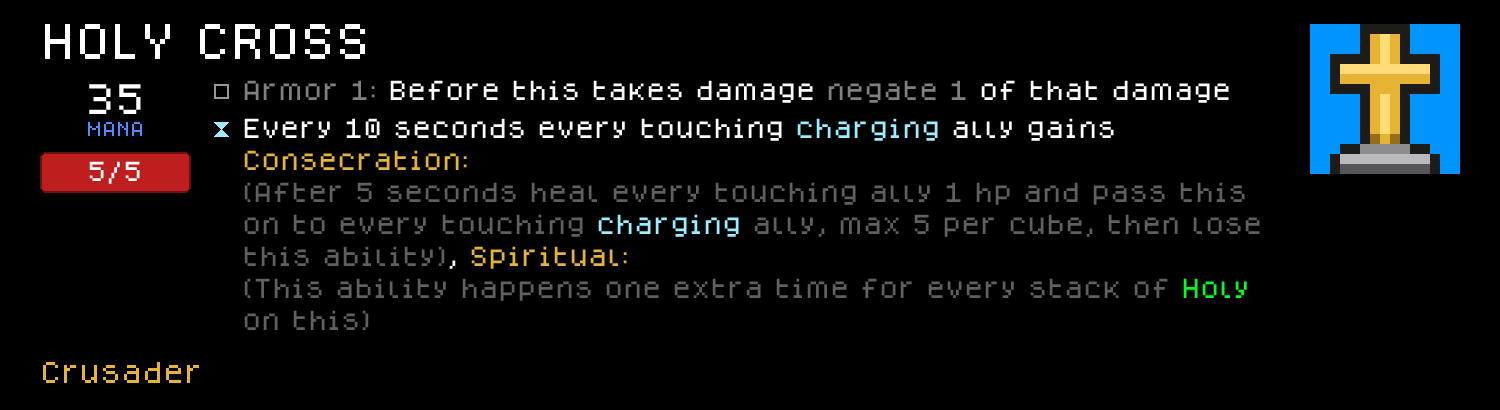
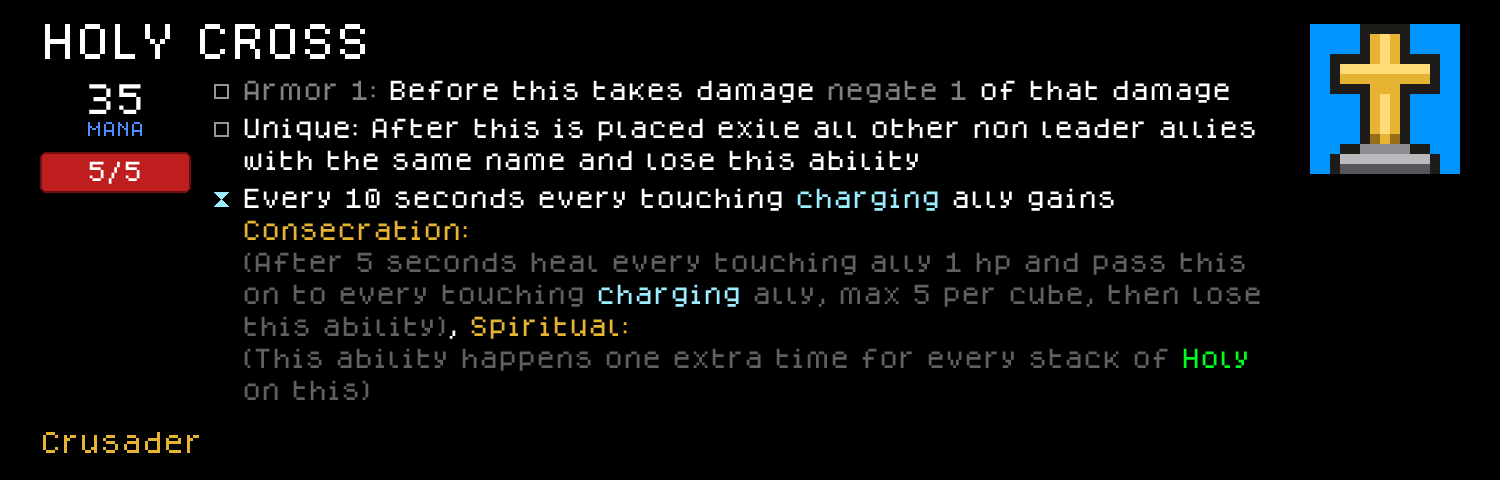
Add Divine Stone cube and Stairway to Heaven terrain
Holy Cross is now Unique.

diff --git a/.claude/skills/cube-chaos-scenario-scripting/scripts/render_terrain_screenshot.py b/.claude/skills/cube-chaos-scenario-scripting/scripts/render_terrain_screenshot.py
@@ -494,6 +494,13 @@ GREAT_WALL_OUTPUTS = [
     ("GreatWall_Boss.png", ["Great_Wall_Terrain", "Great_Wall_Boss_Terrain", "Battle_Normal_Player"]),
 ]
 
+CRUSADER_OUTPUTS = [
+    ("StairwayToHeaven.png",
+     ["Stairway_To_Heaven_Terrain", "Battle_Normal_Player", "Battle_Normal_Enemy"]),
+    ("StairwayToHeaven_Boss.png",
+     ["Stairway_To_Heaven_Terrain", "Stairway_To_Heaven_Boss_Terrain", "Battle_Normal_Player"]),
+]
+
 
 def render_terrain_mod(map_file, out_dir, outputs, shared_map_file=None, mod_dir=None, mod_prefix=None):
     """mod_dir/mod_prefix (both required together) let a terrain's own
@@ -531,4 +538,14 @@ if __name__ == "__main__":
         os.path.join(ROOT, "GameData", "Great_Wall", "Screenshots"),
         GREAT_WALL_OUTPUTS,
         shared_map_file=SHARED_MAP_FILE,
+    )
+    # Crusader's terrain uses its own Cloudstone TOKEN, so it needs mod_dir/mod_prefix
+    # for `_mod_own_blocks()` to resolve that cube's icon out of the mod's own sheet.
+    render_terrain_mod(
+        os.path.join(ROOT, "GameData", "Crusader", "Crusader_Maps.c.txt"),
+        os.path.join(ROOT, "GameData", "Crusader", "Screenshots"),
+        CRUSADER_OUTPUTS,
+        shared_map_file=SHARED_MAP_FILE,
+        mod_dir=os.path.join(ROOT, "GameData", "Crusader"),
+        mod_prefix="Crusader",
     )

diff --git a/.claude/skills/cube-chaos-scenario-scripting/references/battle-and-terrain-maps.md b/.claude/skills/cube-chaos-scenario-scripting/references/battle-and-terrain-maps.md
@@ -154,7 +154,7 @@ Every real Terrain perk supplies exactly 4 `ReadAPartialScenario` calls, always 
 
 **A boss battle's map is the terrain's normal ground partial PLUS its boss-ground partial, both composited — not the boss partial alone.** `MapGenerationTPEB`'s `COMPOUND: ABILITY` body (above) has exactly one `GenericAction` placeholder per signal branch, in the fixed order ground(1)/player(2)/enemy(3)/boss-ground(4), and a terrain's own `WorldAbility: MapGenerationTPEB` fills those 4 slots positionally with its 4 `ReadAPartialScenario` calls. A boss battle's `START_ACTION:` only fires 3 of the 4 signals — `Battle_Terrain_Generation`, `Battle_Boss_Generation`, `Battle_Player_Generation`, never `Battle_Enemy_Generation` — which resolves to slots #1 (ground) and #4 (boss-ground) BOTH running, slot #3 (enemy) never firing. Confirmed by reconstructing `Great_Wall`'s own boss map purely from data (`GameData/Great_Wall/Great_Wall_Maps.c.txt`, via `.claude/skills/cube-chaos-scenario-scripting/scripts/render_terrain_screenshot.py`) and comparing against a real in-game screenshot: `Great_Wall_Boss_Terrain`'s own `DATARECT:` data places only ONE wall (at x=37), but the real screenshot shows TWO — the first wall only appears because `Great_Wall_Terrain` (the normal ground partial) is composited in underneath it. When building a new terrain's boss-ground partial, remember its content LAYERS ON TOP of the normal ground partial rather than replacing it — author boss-only additions (a second wall, extra hazards) rather than re-declaring the whole floor, and don't be surprised that a `<Name>_Boss_Terrain` file with sparse `DATARECT:`/`DATA:` content still produces a full battlefield.
 
-**A terrain's battlefield can be rendered straight from its own map data, no game launch needed** — `.claude/skills/cube-chaos-scenario-scripting/scripts/render_terrain_screenshot.py` parses a terrain's `ADDITIONALMAP:` blocks into a grid and draws each cell using the real cube's own icon (resolved the same way `render_preview_cards.py`'s Referenced Cubes row does — the terrain's own `<ModPrefix>_Cubes.c.txt` first via the `mod_dir`/`mod_prefix` arguments, then `_all_base_game_blocks()`'s base-game fallback), tiled at 30px/cell against a sky-gradient background sampled from a real screenshot (52x28 tiles → 1560x840px, matching real screenshots' own dimensions exactly). Scope: only the terrain's own ground-layout partial(s) — the shared `Battle_*_Player`/`Battle_*_Enemy` leader partials place an engine-hardcoded `Empty`/`Difficulty_Leader` placeholder with no real sprite (the actual Leader art is spawned by the engine at battle start, not present in any map DSL), so a generated image omits leader/HUD icons a real screenshot has.
+**A terrain's battlefield can be rendered straight from its own map data, no game launch needed** — `.claude/skills/cube-chaos-scenario-scripting/scripts/render_terrain_screenshot.py` parses a terrain's `ADDITIONALMAP:` blocks into a grid and draws each cell using the real cube's own icon (resolved the same way `render_preview_cards.py`'s Referenced Cubes row does — the terrain's own `<ModPrefix>_Cubes.c.txt` first via the `mod_dir`/`mod_prefix` arguments, then `_all_base_game_blocks()`'s base-game fallback), tiled at 30px/cell against a sky-gradient background sampled from a real screenshot (52x28 tiles → 1560x840px, matching real screenshots' own dimensions exactly). Scope: only the terrain's own ground-layout partial(s) — the shared `Battle_*_Player`/`Battle_*_Enemy` leader partials place an engine-hardcoded `Empty`/`Difficulty_Leader` placeholder with no real sprite (the actual Leader art is spawned by the engine at battle start, not present in any map DSL), so a generated image omits leader/HUD icons a real screenshot has. **It also renders the map exactly as authored and does not simulate gravity or evaluate any placed cube's abilities** — so an unsupported feature that will collapse at battle start, and a faction-`0` copy of an ability-bearing cube that will sit inert, both look perfectly correct in the PNG. Those two are the checks it cannot do for you; see the two rules below.
 
 **This is wired into `content-terrain.md`'s own workflow, not just a standalone debugging tool** — generate and show this screenshot to the user right after writing a new terrain's ground-layout partial(s), as a fast layout-verification loop before spending a full test-launch on it. `render_terrain_mod()` is a reusable function (map file, output dir, an `(filename, [scenario names])` outputs list, optional `mod_dir`/`mod_prefix`), called once per terrain mod from a "Registered terrain mods" call list at the bottom of the script — the same "hardcoded list, extend when a new mod needs it" convention `render_preview_cards.py`'s own `render_mod(...)` calls already use (see `cube-chaos-mod-setup` SKILL.md). Add a new call there for a new terrain mod rather than repointing `GREAT_WALL_OUTPUTS`. `.claude/hooks/regen-terrain-screenshots.sh` (a PostToolUse hook, universal `GameData/*.c.txt` scope like `regen-preview-cards.sh`) reruns every registered mod's screenshots automatically after any content edit — but only mods actually registered in the script get regenerated, so registering a new terrain mod is still a required manual step.
 
@@ -163,6 +163,45 @@ Every real Terrain perk supplies exactly 4 `ReadAPartialScenario` calls, always 
 **A handful of map-DSL cube names used in real boss-terrain decoration have no corresponding `CUBE:` text definition anywhere in `GameData`** — same category as `Boss`/`Leader`/`Difficulty_Leader`/`Empty` (engine-hardcoded, usable only as a map-placement name, not moddable/inspectable as DSL). Confirmed absent from every `.c.txt` in the repo (checked per-subfolder, not a single whole-tree grep — see the grep-silent-failure note in `cube-chaos-mod-setup`): `Spiker_Wall`, `Spikes`, `Solar_Panel` (all used only inside `Extra_Mechanics/Battle_Maps.c.txt`'s own boss-terrain decoration clusters). Don't go looking for their `CUBE:` block if you want to reuse or reference one — it doesn't exist; just use the name directly in a `DATA:`/`DATARECT:` line the same way the base game does.
 
 **Gravity is real: an unsupported cube (nothing solid directly South of it) falls, one tile at a time, until it hits something solid** — confirmed via `Skewer_Trap`'s (`Main/3GeneralCubes.c.txt:5852`, a real obtainable `TYPE Wall` cube, not an `Extra_Mechanics` TOKEN) own trigger, `AfterACubeMoves ... If IsSameCube Caster CubeInDirectionFromCube South Victim`, which fires specifically when a falling cube comes to rest in the tile directly above it. **To build a pit/fall-trap in a terrain's floor, leave the tiles directly above the trap empty instead of filling them with the floor cube** — e.g. a trap meant to sit "2 tiles below the floor surface" needs the floor's normal top 2 rows left unfilled at that one column, with the trap cube occupying the row below that gap; a unit that steps onto that column has nothing to stand on and falls straight into it. **Also watch for a trap-style cube's own `AfterThisIsCreated`-time area effect hitting terrain fill, not just player units** — `Skewer_Trap` kills up to 2 *neutral* cubes directly below itself on creation; placing multiple neutral copies of it stacked in the same column (or one directly above plain neutral floor filler) causes it to silently gut its own neighbors/the floor beneath it at terrain-generation time. Space multiple instances of a self-triggering neutral decoration at least 3 tiles apart in the same column, or make sure what's below it isn't neutral, to avoid this.
+
+## Give every ability-bearing terrain cube to the faction meant to USE it — faction `0` disables any ally-gated ability
+
+**Rule: when a terrain places a cube whose ability is gated on `IsAllyToCaster`/`IsEnemyToCaster` or uses `Forwards`/`Backwards`, set that `DATA:`/`DATARECT:` line's faction argument to the faction meant to benefit (`1` player side, `2` enemy side) — never `0`.** Faction `0` is correct only for inert decoration (a rock floor, an ocean, a wall with no ability). A neutral cube has no allies for `IsAllyToCaster` to match and no meaningful facing for `Forwards`/`Backwards` to resolve against, so its ability silently does nothing and it degrades into a plain wall — with no log warning, since nothing failed to parse.
+
+**Verify it before launching:** for every cube name a terrain places, grep its `CUBE:` block for `IsAllyToCaster`/`IsEnemyToCaster`/`Forwards`/`Backwards` (`grep -A15 "^CUBE: <Name> " <file>`). Any hit means that cube's placing line must carry faction `1` or `2`, not `0`. A terrain that reads correctly in `render_terrain_screenshot.py` proves nothing here — the screenshot draws the tile identically at any faction (bar the mirror flip), so this is exactly the class of bug a picture can't catch.
+
+**Evidence.** `Staircase` (`Main/3GeneralCubes.c.txt:5959`, a real obtainable `IDENT 1` cube, `TYPE Wall` + `TYPE Movement`) is the load-bearing case: its whole point is `Ability: BeforeACubeMoves If IsAllyToCaster Victim ... TargetCube Victim MoveInDirection North` — "before an ally moves into this horizontally move it upwards (they can climb over this)", i.e. it is the engine's stock **traversal** primitive for a terrain with height. The base game places it exactly once in the entire map layer (`Extra_Mechanics/Battle_Maps.c.txt:192`, `Mountain_Boss_Terrain`), as three steps at **faction 2** (`DATA: 8 44 10 2`, `8 45 11 2`, `8 46 12 2`) climbing to that terrain's own boss — deliberately the boss's own stair, not neutral scenery. Applied in `GameData/Crusader/Crusader_Maps.c.txt` (`Stairway_To_Heaven_Terrain`, 2026-08-03): the player's 18-step stair is faction `1`, the mirrored enemy stair faction `2`, and only the inert pieces (cloud beds, the platform's middle tiles, the summit's `Mana_Crystal`s) are faction `0`. This also makes each side's stair destructible by the other, which is a feature — denying an opponent their climb becomes real play.
+
+**Faction-symmetry note:** giving each side its own mirrored copy is what keeps such a terrain symmetric — it is the scenario-layer expression of the same mandate `CLAUDE.md` states for `Ability:` chains (see `cube-chaos-scripting/references/targeting-movement-board.md`). One shared neutral structure is *not* the symmetric option here; it's the broken one.
+
+## A floating terrain feature needs `Flying` under every tile — `Burrowed` is NOT anti-gravity
+
+**Rule: any terrain tile not resting on a stack that reaches the map's bottom row must be a cube with `Ability: Flying`, or sit directly on top of one.** Gravity applies to map-placed cubes exactly as it does to units, so an unsupported decoration falls at battle start.
+
+**`Burrowed` looks like the anti-gravity ability and is not.** Its `COMPOUND: ABILITY` body is literally `Nothing` (`Base_Core/1Compounds.c.txt`) and `ModdingInfo.txt:90` defines it as *"Won't be attacked by `Melee` from above"* — a melee-immunity marker with zero movement effect. The real anti-gravity ability is **`Flying`**: `BeforeThisMovesNegation If IsSameCube Culprit WorldCube NegateX DoubleConstant 1`, i.e. it negates specifically the gravity `WorldCube`'s pull (see `cube-chaos-scripting/references/targeting-movement-board.md`'s gravity section for the full negation idiom and its `Hovering`/`Buoyant` variants). `Earth`/`Rock`/`Granite`/`Basalt`/`Anchored_Basalt` carry `Burrowed` and never fall **only because every real ground fill is stacked up from row 27** — their support is the map floor, not the ability. Copying `Burrowed` onto a mid-air tile therefore looks precedented and silently fails.
+
+**The base game's own floating-terrain cube is `Floating_Tungsten`** (`Extra_Mechanics/TokenCubes.c.txt:618`) — exactly `Burrowed` + `Flying`, and what `Loop_Monument_Terrain` uses for every platform suspended in open air. Reach for it, or copy its two-ability shape, rather than inventing a floating tile from `Burrowed` alone.
+
+**Verify it before launching:** for every placed tile at `(x, y)`, confirm either `(x, y+1)` is filled by some line in the same partial, or that tile's own cube has `Flying` — walk the coordinate list in code, don't eyeball the screenshot. `render_terrain_screenshot.py` renders the map **as authored** and simulates neither gravity nor any placed cube's abilities, so a terrain that will collapse on the first battle looks perfectly intact in the generated PNG. Together with the faction rule above, these are the two checks that image cannot do for you.
+
+**Evidence / incident (2026-08-03).** Crusader's `Stairway_To_Heaven_Terrain` shipped its 36 stair beds and summit platform on a `Cloudstone` TOKEN carrying `Burrowed` only, on the strength of an earlier, wrong version of this very section. It parsed clean, logged nothing, and rendered correctly — the whole stairway would have fallen on the first battle. Caught only when the user independently asked about `Flying`; fixed by adding `Ability: Flying` to `Cloudstone`, matching `Floating_Tungsten`. Note also that the base game's own `Mountain_Boss_Terrain` staircases at `(44,10)`/`(45,11)`/`(46,12)` have nothing beneath them and no `Flying` either — don't copy that placement as a worked example.
+
+## Wrapping a column's bottom back to its top (`Loop_Chasm`)
+
+**To make falling loop instead of ending on the floor, place `Loop_Chasm` on the bottom row (`y=27`) of that column and leave the column above it OPEN.** `Loop_Chasm` (`Extra_Mechanics/TokenCubes.c.txt:606`, `TOKEN`, 15/40/40, faction `0` in every real placement) rewrites adjacency once per second so that the tile above it leads to `(thisX, 0)` and back:
+```
+Ability: EverySecond Both ChangeIncomingAdjacency PositionOfThis
+ South PositionFromXAndY XOfPosition PositionOfThis DoubleConstant 0
+ NewAdjacency PositionFromXAndY XOfPosition PositionOfThis DoubleConstant 0
+ North PositionOfThis
+Ability: Quantum
+Ability: Unmovable
+```
+It only affects **its own column**, so looping N columns needs N of them — a `DATARECT:` across the bottom row is the idiom. `Quantum` ("after this dies, teleports or moves reset all adjacency at the previous position") is what keeps the rewritten adjacency from leaking once something moves through, so grant it alongside rather than using `ChangeIncomingAdjacency` bare.
+
+**A looping column MUST contain something solid somewhere, or anything entering it falls forever.** `Loop_Monument_Terrain` satisfies this by looping only a few deliberate chasms while keeping a real floor elsewhere. **Verify with code, not by eye:** build a `column -> solid rows` map from the partial's own `DATA:`/`DATARECT:` lines and assert no column is empty. This is cheap and catches the one failure mode that is genuinely unrecoverable in play.
+
+**Budget for how the loop LOOKS before committing to it, not just how it behaves — `Loop_Chasm`'s own icon is a bright yellow-flecked portal frame around a black void, and one per column means that art tiles across the entire bottom row.** Real outcome (Crusader `Stairway_To_Heaven`, 2026-08-03): a full 52-column loop was built, worked correctly, and was then removed purely because a row of portals read as wrong on a serene sky map — the mechanic was fine, the visual dominance wasn't. If a loop is wanted on a map with a strong art direction, either confine it to a few deliberate chasms the way `Loop_Monument` does, or define a mod-own `TOKEN` carrying the same three abilities (`ChangeIncomingAdjacency`+`NewAdjacency` body, `Quantum`, `Unmovable`) with art that matches the terrain — base-game sprites can't be restyled (`CLAUDE.md`), so a mod-own twin is the only way to keep the mechanic and lose the look.
 
 ## Practical sequence for a new Terrain perk
 

diff --git a/.claude/skills/cube-chaos-audit/references/cross-skill-index.md b/.claude/skills/cube-chaos-audit/references/cross-skill-index.md
@@ -57,6 +57,8 @@ tracking them as a set, so the same asymmetry kept recurring skill after skill.
 | A **computed-value** ability grant takes the bare coloured name + "equal to \<expr\>" in prose, never `\A` — `\A` substitutes the literal parameter and would print the wrong number | `cube-chaos-rule-text/SKILL.md` (the three mechanical cautions under "Why `\A` at all") | `cube-chaos-scripting` (`GainAbilityStacking`/`XTimes`-computed grants are exactly where this arises); `cube-chaos-audit` has no row for it yet | linked 2026-08-03 |
 | `Difficulty` starts at **0** and tracks battles won, so any stat scaled off it must be floored/offset or the cube is born at 0 hp on battle one | `cube-chaos-balancing/SKILL.md` ("Scaling a stat off `Difficulty`") | `cube-chaos-scripting` (it's a plain DOUBLE production usable in any chain, with no hint of the 0 floor); `cube-chaos-scenario-scripting` owns the `ChangeDifficulty` sites that drive the counter | linked 2026-08-03 |
 | Script-written `.c.png` files never fire `regen-preview-cards.sh`/`regen-readme-previews.sh` (both match `Write\|Edit` + `tool_input.file_path`), so a scratchpad-generated sheet needs a manual `render_preview_cards.py` run — the stale card looks like bad slot math | `cube-chaos-sprite-art/SKILL.md` ("Script-written sheets don't trigger the regen hooks") | `cube-chaos-mod-setup` (owns the test/verify loop and README/Preview governance); `cube-chaos-scenario-scripting` (`render_terrain_screenshot.py` is generated the same way) | linked 2026-08-03 |
+| A terrain cube whose ability is gated on `IsAllyToCaster`/`Forwards` must be placed at faction `1`/`2`, never `0` — a neutral copy silently degrades to an inert wall (`Staircase`, the engine's stock traversal primitive, is the load-bearing case) | `cube-chaos-scenario-scripting/references/battle-and-terrain-maps.md` ("Give every ability-bearing terrain cube to the faction meant to USE it") | `cube-chaos-scripting/references/targeting-movement-board.md` ("Hardcoding `East`/`West`") now points here — same faction-symmetry mandate, scenario layer; `cube-chaos-audit` still has no checklist row for an inert-neutral terrain cube | linked 2026-08-03, needs checklist row |
+| Map-placed cubes fall: a diagonal/floating terrain feature needs a `Burrowed` cube under every tile, and `render_terrain_screenshot.py` does NOT simulate gravity so a collapsing layout looks intact in the PNG | `cube-chaos-scenario-scripting/references/battle-and-terrain-maps.md` ("A diagonal/floating terrain feature needs a `Burrowed` bed") | `cube-chaos-scripting/references/targeting-movement-board.md` (gravity is a general board fact, not terrain-only) now points here; the screenshot's own known-gaps paragraph in the same file now names this gap | linked 2026-08-03 |
 | `IsPositionEmpty <P>` already short-circuits on the null check, so it returns `false` off-board and `And PositionExists <P> IsPositionEmpty <P>` is redundant; `PositionExists` alone is only for "is this the map edge" regardless of occupancy | `cube-chaos-scripting/references/targeting-movement-board.md` ("`IsPositionEmpty` already implies `PositionExists`") | `cube-chaos-audit` has no row for the redundant-guard pattern (it's harmless, but it's the shape that makes people think an empty-check is unsafe alone); two live instances remain in `General_Cubes.c.txt` (`Bomber`, `Take_Off`) | needs checklist row |
 | `AddCubeToInventory`/`AddCubeToDeck` take a full `CUBE` production, so a starter/grant can be randomized from a custom pool via `APRandomCubeInLibraryWhich` + a name or `HasCategory` filter — `AP` is the campaign-**seeded** variant and the only one valid in meta-game context | `cube-chaos-scripting/references/creation-and-copying.md` ("Randomizing a grant from a custom pool") | `cube-chaos-scripting/SKILL.md`'s starting-cube baseline note now points here; `cube-chaos-balancing` (a randomized starter's power has to be judged across the whole pool, not one cube) | linked 2026-08-03 |
 | `-N Animated Cubes` in `Log.txt` counts cubes with a **declared** `Animation:` line, not successfully-loaded frame files — so it cannot detect a missing/misnamed PNG (that's the separate `Failed to find animation file:` ERROR), and a static recount won't reconcile if a `Loading_Order.txt` package lives outside `GameData/` | `cube-chaos-scripting/references/cube-animation.md` ("The count is a DECLARATION count") | `cube-chaos-mod-setup` (owns the launch-and-check-`Log.txt` loop, where this count is read); `cube-chaos-sprite-art` (owns the frame-file naming/placement that the other check covers) | needs link |

diff --git a/.claude/skills/cube-chaos-scripting/references/targeting-movement-board.md b/.claude/skills/cube-chaos-scripting/references/targeting-movement-board.md
@@ -150,6 +150,8 @@ This is not a rare mistake — a real audit of both mods in this repo (grep `\bE
 
 **Whenever writing a new cube/perk that creates or targets something to one side, default to `Forwards`/`Backwards` and only reach for a literal `East`/`West` if there's a genuine reason the effect must be map-absolute** (rare — no real example of this need was found anywhere in either mod). When reviewing/debugging an existing sideways effect that seems to misbehave only for one player, grep for `East`/`West` in that ability chain before looking anywhere else.
 
+**The same rule has a scenario-layer counterpart worth knowing before authoring a battle map:** a cube written correctly with `Forwards`/`IsAllyToCaster` still does nothing if a `DATA:`/`DATARECT:` line places it at faction `0`, since a neutral cube has no allies and no facing. See `cube-chaos-scenario-scripting/references/battle-and-terrain-maps.md`'s "Give every ability-bearing terrain cube to the faction meant to USE it".
+
 **This is one of two halves of the same faction-symmetry rule — the one-step-sideways half.** The whole-board half (which absolute column is *my* edge, which side of the board is *my* territory) is "Finding my own edge column" and "Enemy/allied territory" above. A cube can be perfectly `Forwards`-correct and still fire at the wrong end of the map, so check both. `CLAUDE.md`'s faction-symmetry rule makes both the non-negotiable default rather than a per-cube judgment call, and `cube-chaos-audit`'s checklist has a Universal-scope row for each.
 
 ## Simple forward-patrol with no directional sprite: use the built-in `RoamingX`, don't reach for the Charge/Flee-swap pattern below
@@ -276,6 +278,8 @@ Real incident (`Crusader`'s `Cardinal`, 2026-08-02): `BeforeThisMoves ... Target
 There is **no cube-stacking/altitude/z-axis system at all** — "above"/"below" a cube always just means the North/South grid neighbor tile (confirmed via `NoCubeAbove`, `AboveExists`, `TopPositionAboveCube`, and dozens of real cubes like `Slime_Transport_Belt`/`Healing_Pillar` that read "the cube sitting on me" as `CubeInDirectionFromCube North Caster`). Don't reach for a stacking mechanic that doesn't exist when a mod concept sounds like it needs "layers."
 
 `PERK: Gravity` (`Base_Core/GameRulePerks.c.txt`) is a real per-tick effect — a `WorldCube` moves every cube one tile in `GravityDirection` (South by default) ~15×/second unless negated — but it's technically opt-in per scenario (`SCENARIO:` blocks each list `PERK: Gravity` explicitly), not a hardcoded engine rule. In practice it's granted by every normal-play scenario checked (`Tutorial`, `Campaign`, `Random_Daily_Campaign`, `Mirror_Breaker`, the `Extra_Mechanics` node-map campaign) so treat it as baseline-on for any mod targeting normal play.
+
+**Gravity applies to map-placed terrain cubes too, which is a live authoring trap when writing a battle map rather than an ability** — a diagonal or floating terrain feature collapses at battle start unless every tile sits on something `Burrowed`, and the terrain screenshot renderer doesn't simulate it. See `cube-chaos-scenario-scripting/references/battle-and-terrain-maps.md`'s "A diagonal/floating terrain feature needs a `Burrowed` bed" for the rule and its verification step.
 
 **The negation idiom**, used by every real gravity-immunity ability (`Flying`, `Hovering`/`Advanced_Hovering`, `Buoyant`): hook `BeforeThisMovesNegation` (self) or `BeforeACubeMovesNegation` (reacting to a *different* cube's fall) and check `If IsSameCube Culprit WorldCube` before negating — this specifically targets gravity-caused moves without blocking the cube's own `ChargeEveryX`/`FleeEveryX`-driven moves, since those have a different `Culprit`. Conditional/partial negation (rather than a flat permanent immunity like `Flying`) is a normal, precedented shape — `Hovering` only negates `If CubeExists CubeOfPosition PositionInDirectionFromPosition South PositionInDirectionFromPosition South PositionOfCube Caster` (i.e. only while something is 2 tiles below it):
 ```

diff --git a/GameData/Crusader/README.md b/GameData/Crusader/README.md
@@ -32,11 +32,19 @@ Each card below is rendered to match the game's own in-game tooltip style. Full-
 </tr>
 </table>
 <img src="Preview/Crusader_Cubes_Lazarett.png" width="700" alt="Lazarett cube card">
+<img src="Preview/Crusader_Cubes_Divine_Stone.png" width="700" alt="Divine Stone cube card">
+<img src="Preview/Crusader_Cubes_Cloudstone.png" width="700" alt="Cloudstone cube card">
 
 ### Perks
 
 <img src="Preview/Crusader_Perks_Crusader.png" width="700" alt="Crusader class perk card">
 <img src="Preview/Crusader_Perks_Home_Turf_Advantage.png" width="700" alt="Home Turf Advantage perk card">
+
+### Terrain
+
+<img src="Preview/Crusader_TerrainPerks_Stairway_To_Heaven.png" width="700" alt="Stairway To Heaven terrain perk card">
+<img src="Screenshots/StairwayToHeaven.png" width="700" alt="Stairway To Heaven - terrain, in game">
+<img src="Screenshots/StairwayToHeaven_Boss.png" width="700" alt="Stairway To Heaven Boss - terrain, in game">
 <!-- PREVIEW:END -->
 
 ## Installing this mod (to play it)
